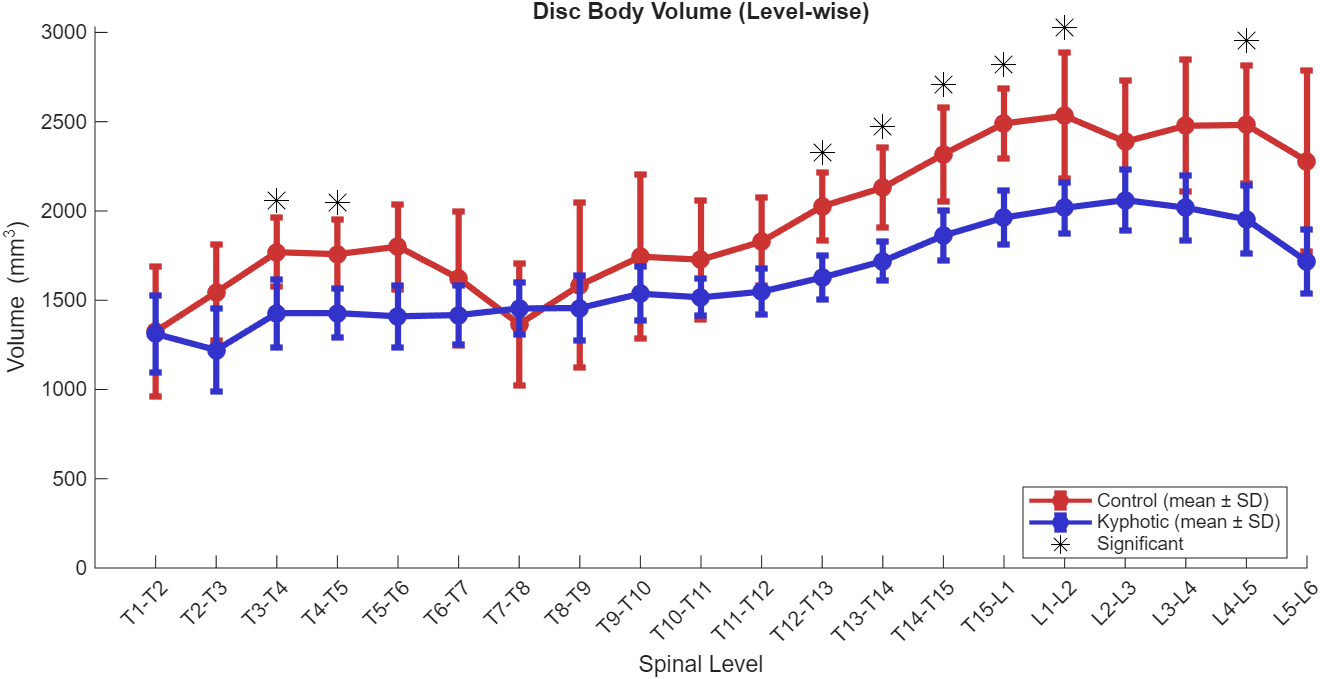
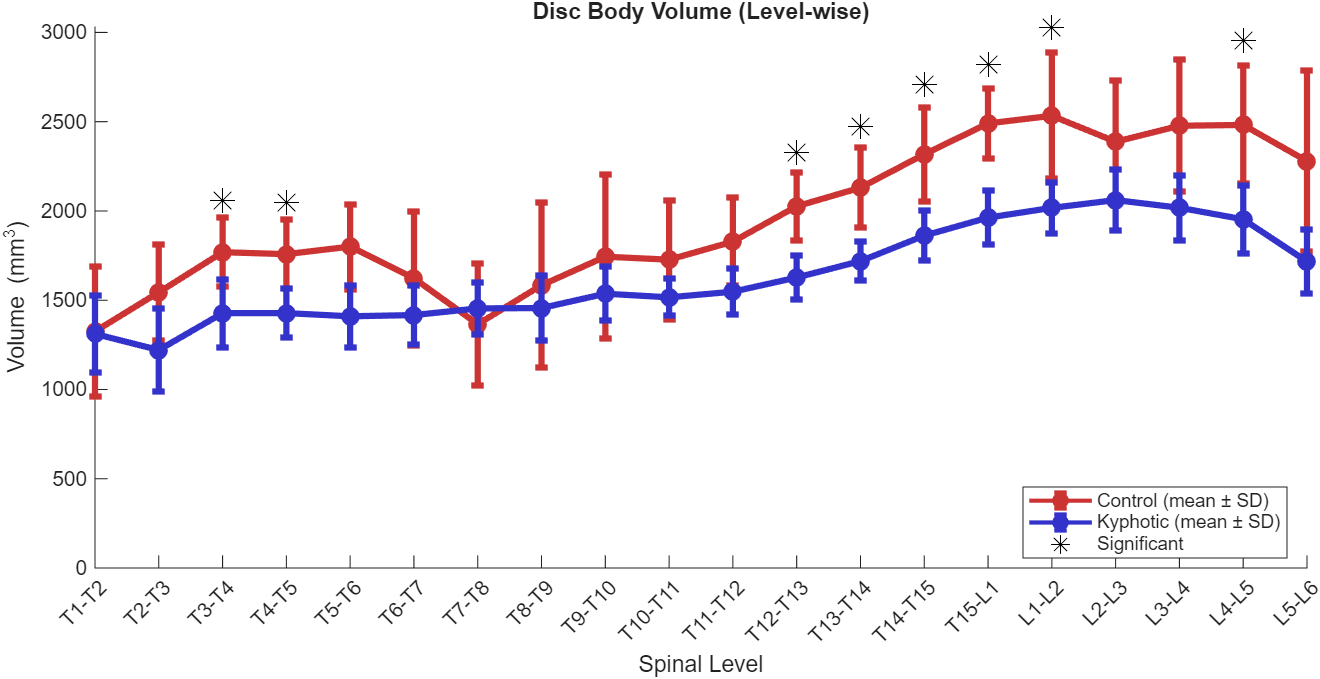
fixing volume plots

Changed region(s): [[0.0621, 0.0309, 0.9629, 0.5876], [0.0621, 0.8351, 0.9318, 0.9588], [0.9318, 0.866, 0.9629, 0.8969]]

diff --git a/src/analysis-utils/summarizeData.m b/src/analysis-utils/summarizeData.m
@@ -78,6 +78,25 @@ plotLevelwiseStats( ...
     'Title','Disc Body Volume (Level-wise)', ...
     'UseQ', true);
 
+% Reporting increases in volume/level data (mm^3/level):
+fprintf('Control vertebral body volume increases by an average of %f mm^3/level!\n', mean(diff(TvolVertStats.MeanC)))
+fprintf('Kyphotic vertebral body volume increases by an average of %f mm^3/level!\n', mean(diff(TvolVertStats.MeanK)))
+
+fprintf('Control disc body volume increases by an average of %f mm^3/level!\n', mean(diff(TvolDiscStats.MeanC)))
+fprintf('Kyphotic disc body volume increases by an average of %f mm^3/level!\n', mean(diff(TvolDiscStats.MeanK)))
+
+% Reporting relative difference between control and kyphotic (%):
+maxRelDiffVert = max((TvolVertStats.MeanC - TvolVertStats.MeanK)./TvolVertStats.MeanK * 100);
+minRelDiffVert = min((TvolVertStats.MeanC - TvolVertStats.MeanK)./TvolVertStats.MeanK * 100);
+
+maxRelDiffDisc = max((TvolDiscStats.MeanC - TvolDiscStats.MeanK)./TvolDiscStats.MeanK * 100);
+minRelDiffDisc = min((TvolDiscStats.MeanC - TvolDiscStats.MeanK)./TvolDiscStats.MeanK * 100);
+
+fprintf(['Vertebral body volumes from control specimens were %f - %f %% ' ...
+    'greater than kyphotic vertebral bodies at every level!\n'], minRelDiffVert, maxRelDiffVert)
+fprintf(['Disc body volumes from control specimens were %f - %f %% ' ...
+    'greater than kyphotic vertebral bodies at every level!\n'], minRelDiffDisc, maxRelDiffDisc)
+
 %% SPM EXTRACT
 % Extracting SPM-ready matrices from the measumrent tables
 
@@ -170,6 +189,4 @@ exportSPMArray(sumPath, 'discVol', YcDiscVol, YkDiscVol, discVol);
 %% MATLAB CLEANUP
 % Clearing leftover workspace variables, except the measurement tables:
 clearvars -except Tslice Theight Tvolume cfg;
-
-clc; % clearing command window
 

diff --git a/src/makeConfig.m b/src/makeConfig.m
@@ -50,7 +50,7 @@ function cfg = makeConfig(projectPath)
     cfg.plot.monitorDiscEndplates = false; % if '.alreadyMade' = true, then '.monitorDiscEndplates' will be skipped
     cfg.plot.showDiscMetadata = false;
 
-    cfg.plot.showGeometryAlignments = true;
+    cfg.plot.showGeometryAlignments = false;
 
     cfg.plot.monitorVertebraSlices = false; % if 'makeVertebraSlices' = false, this is skipped
     cfg.plot.monitorDiscSlices = false; % if 'makeDiscSlices' = false, this is skipped

diff --git a/src/plot-utils/plotLevelwiseStats.m b/src/plot-utils/plotLevelwiseStats.m
@@ -72,6 +72,7 @@ function plotLevelwiseStats(Tstats, structure, varargin)
     xlabel('Spinal Level')
     ymin = 0;
     ylim([ymin Inf]);
+    xlim([min(x) Inf]);
 
     % Get the current axes handle
     ax = gca;
